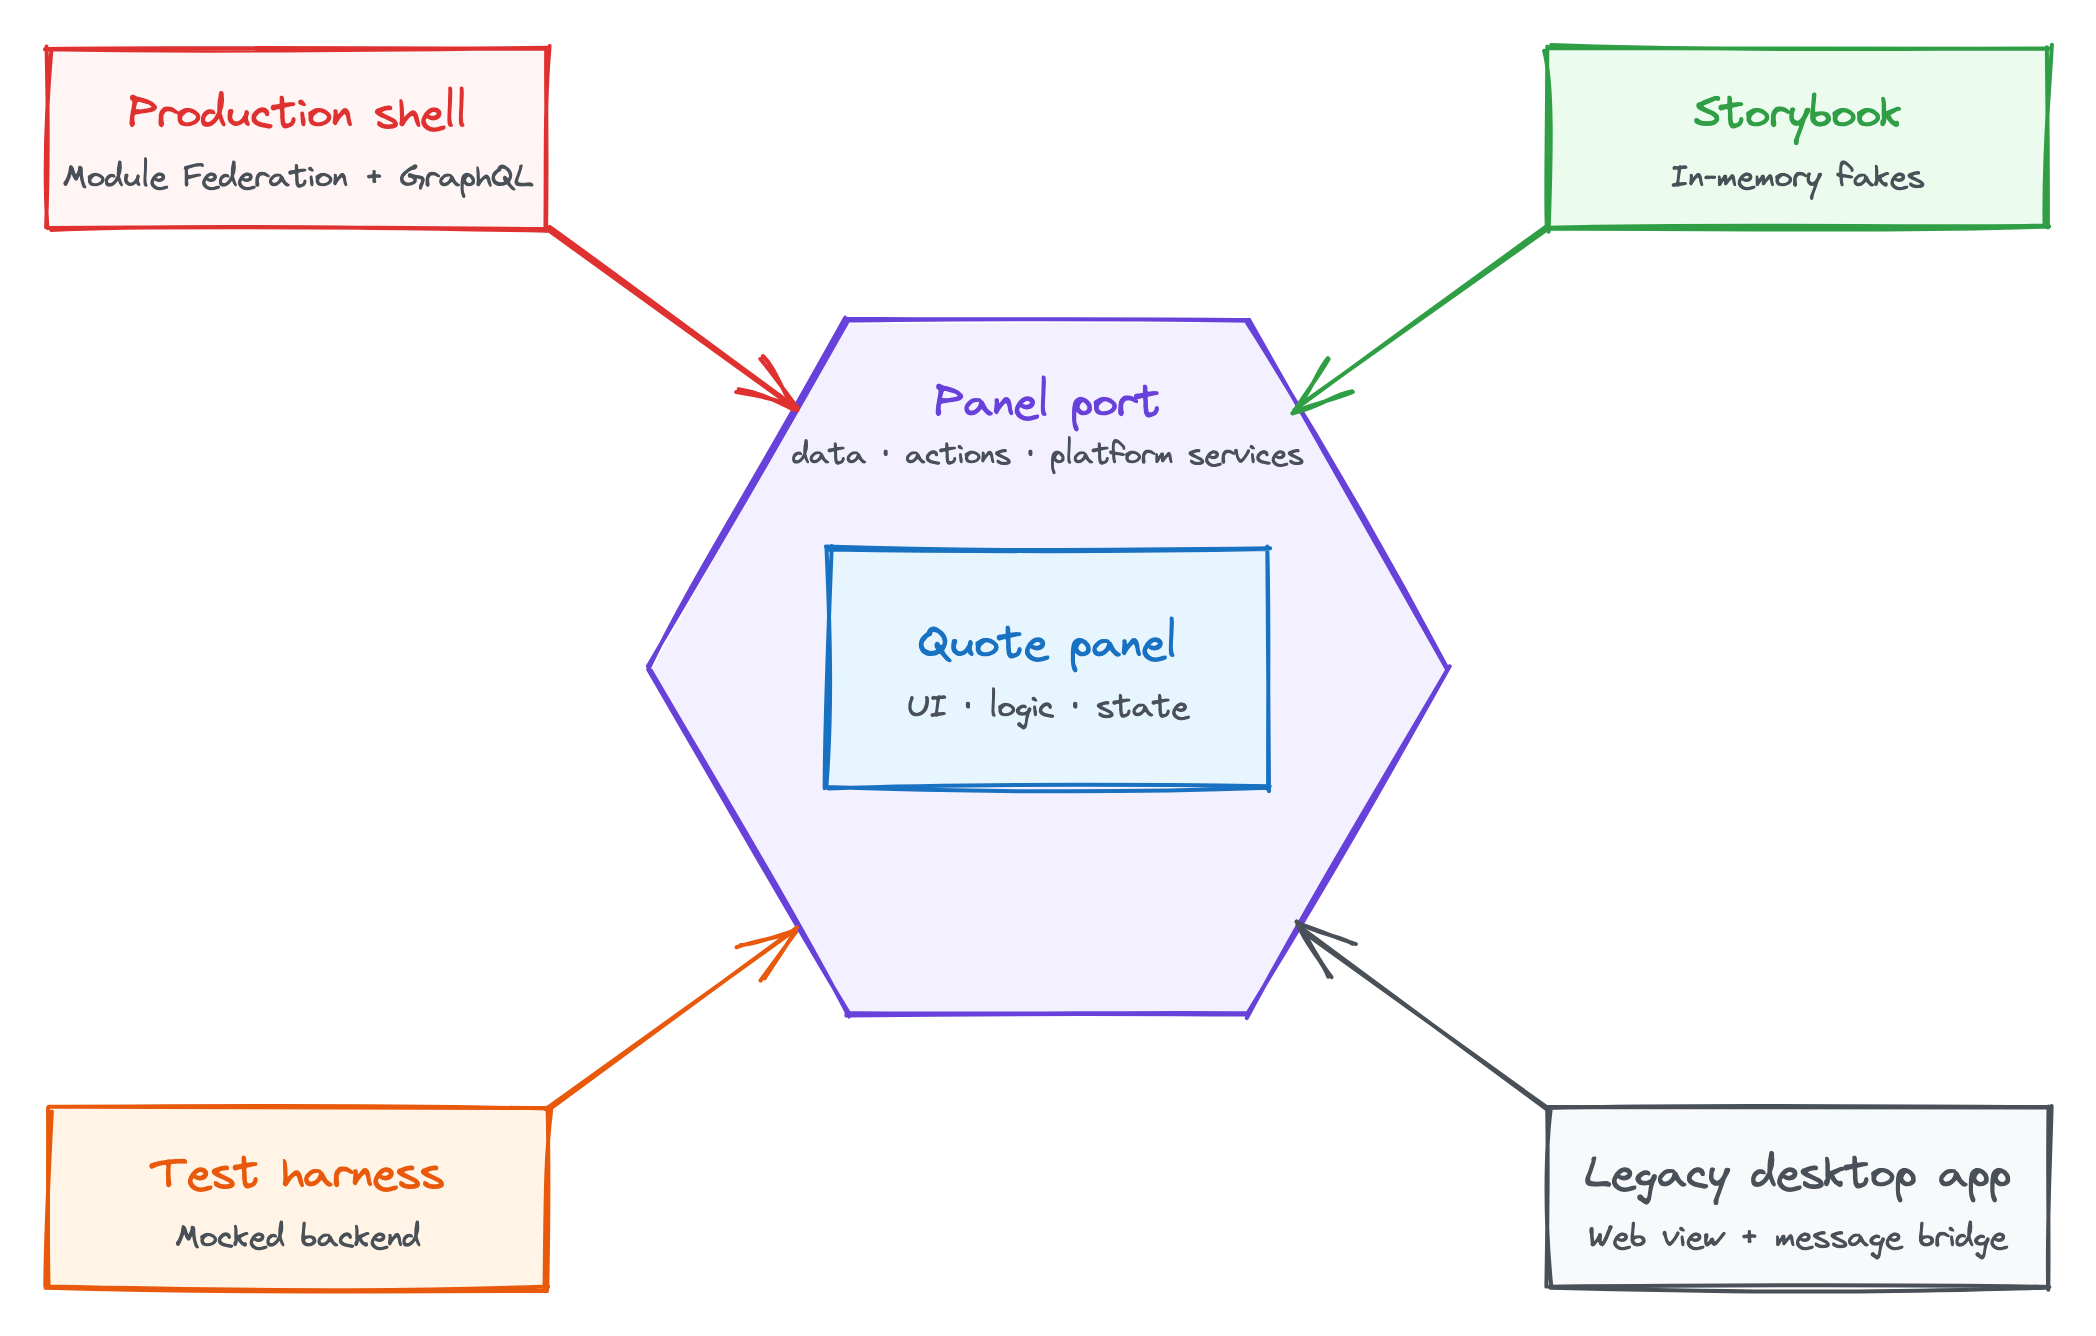
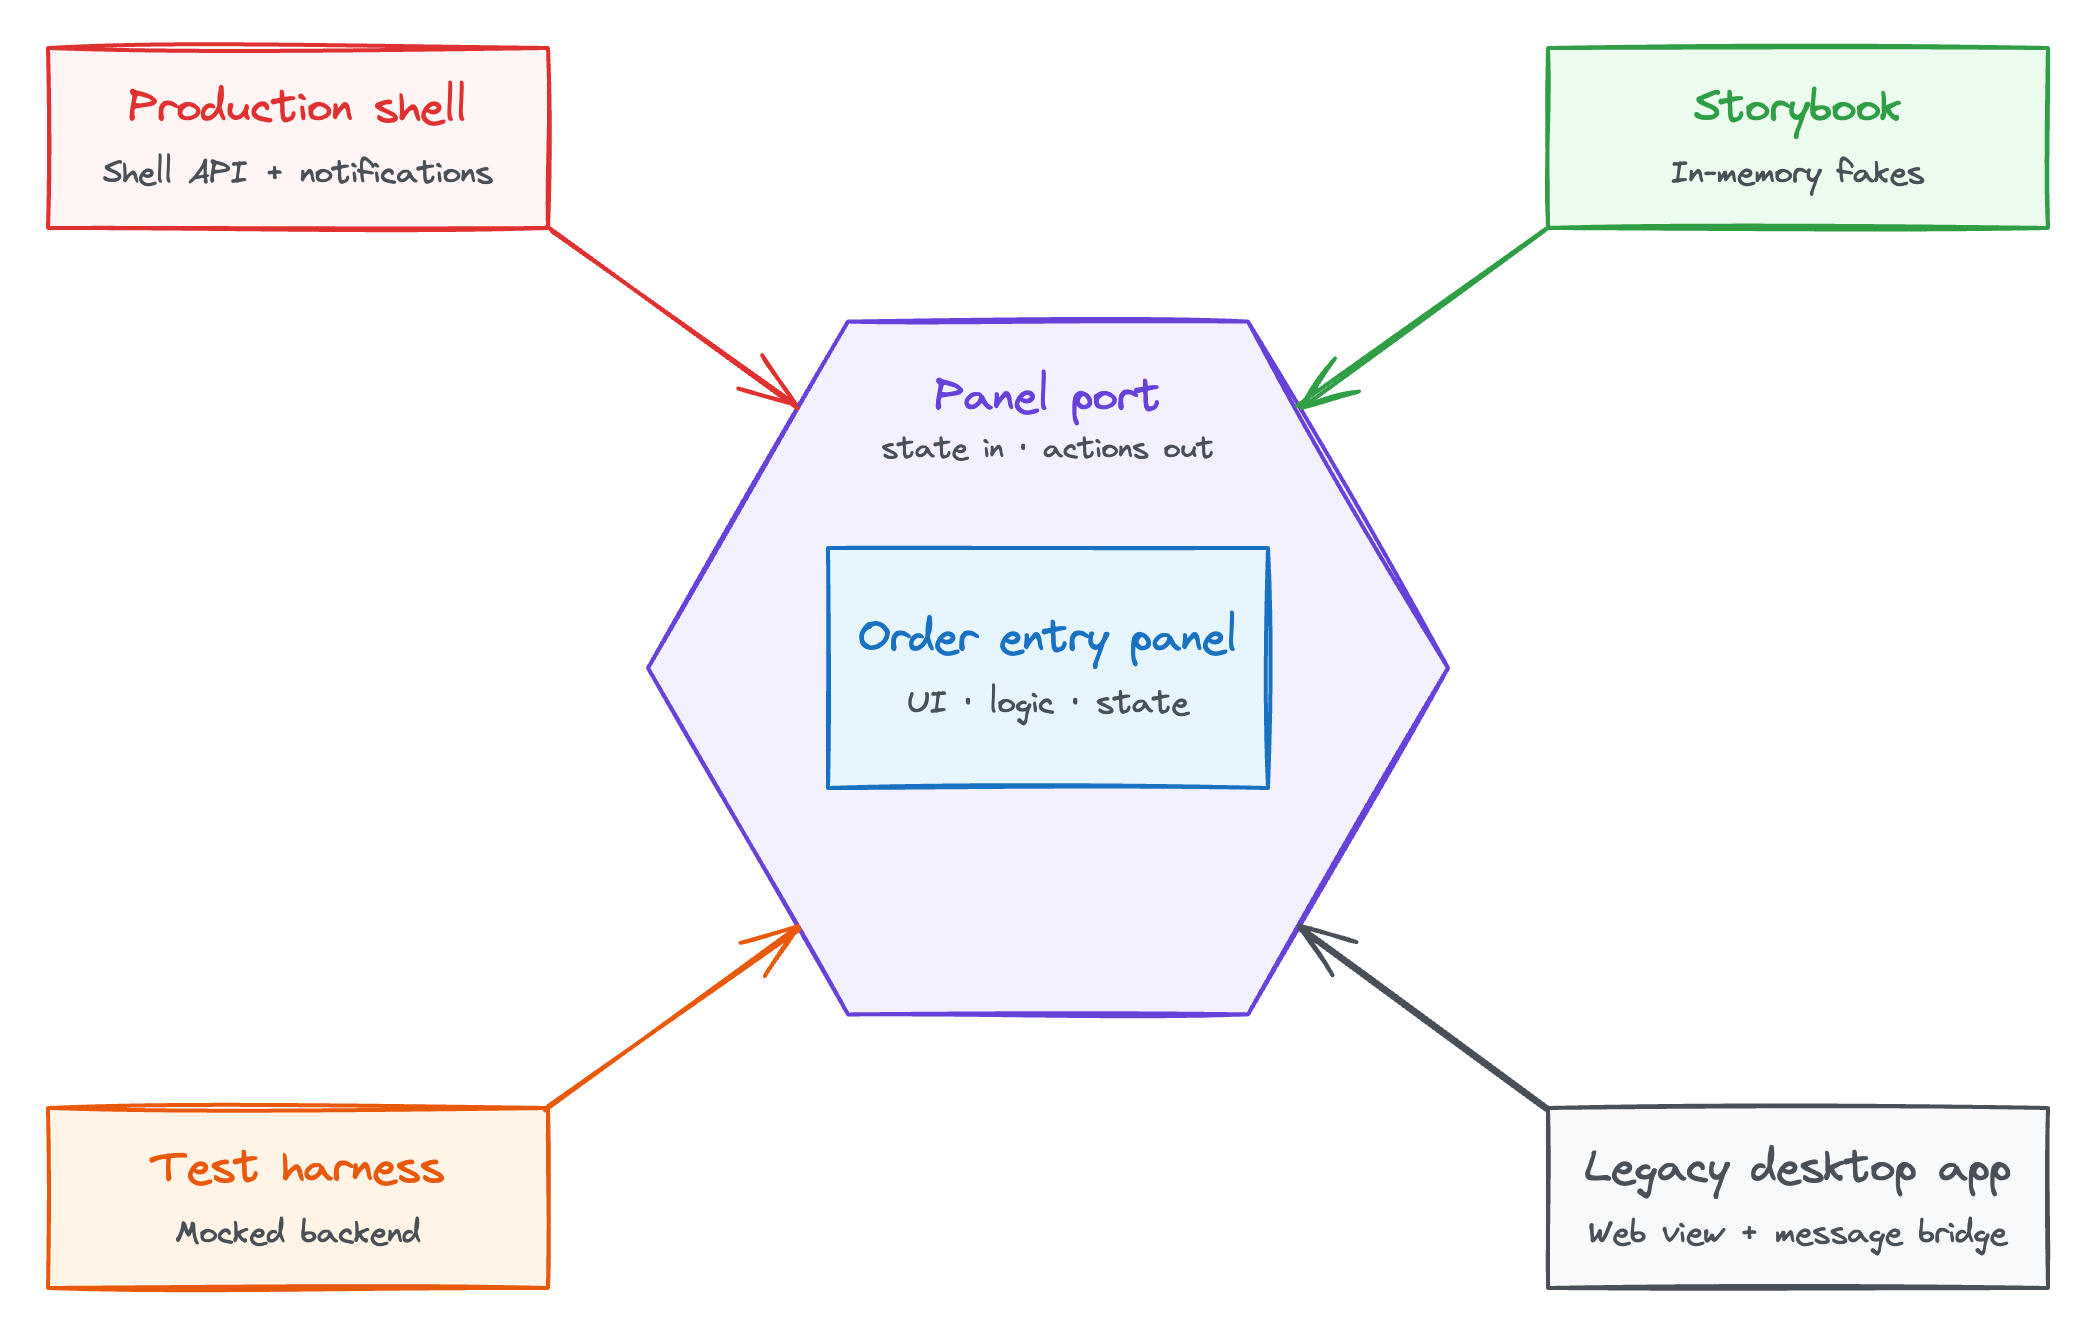
docs: draft hexagonal architecture section and update diagram
Claude-Session: https://claude.ai/code/session_017rTTwwU8YiK92XBfFbsHr6

diff --git a/blog/ports-and-adapters-for-micro-frontends.md b/blog/ports-and-adapters-for-micro-frontends.md
@@ -106,24 +106,48 @@ them independently.
 
 ## Hexagonal architecture in front-end terms
 
-**TODO:** Explain ports and adapters from first principles for readers who
-haven't met it. Link to Alistair Cockburn's original article. Translate the
-server-side framing:
+Alistair Cockburn described
+[hexagonal architecture](https://alistair.cockburn.us/hexagonal-architecture),
+or ports and adapters, in 2005 as a way for an application "to be developed and
+tested in isolation from its eventual run-time devices and databases". Replace
+devices and databases with the shell and its shared modules and the same goal
+applies to a micro-frontend, or panel. The pattern has three parts:
 
-- The **application core** is the panel: its UI, logic and state.
-- A **port** is the interface describing everything the panel needs from
-  outside.
-- An **adapter** fulfils the port for one host.
-- Dependencies point inwards: adapters know about the panel, the panel never
-  knows about adapters.
+- **The application** is the panel's logic and state: the bid it builds from the
+  user's input and what it does when the bid succeeds or fails. The order entry
+  form drives it and ships with it as one panel.
+- **A port** is an interface that describes what the panel needs from the
+  outside, in the panel's own terms. Order entry needs to submit a bid and
+  notify the user of the outcome.
+- **An adapter** implements the port for one host. In the production shell,
+  submitting a bid calls the shell's API. In Storybook it can resolve straight
+  away, or reject to show the error state, without making a request.
 
-Keep it concrete. Avoid the abstract hexagon talk until the diagram.
+In Cockburn's article the UI sits outside the application and drives it through
+a port, which means tests can take its place. The same is true here: the panel's
+UI only reads state and calls actions, and never reaches past the port. The UI
+is also part of what a micro-frontend ships, so it needs testing too. In
+Storybook and the test harness the real UI stays in place and the adapter behind
+the port changes.
+
+The important change is the direction of the dependencies. `OrderEntry` imports
+`@shell/api` and `@shell/notifications`, so the panel depends on the shell. With
+a port the dependency is inverted. The panel defines the interface, each adapter
+depends on that interface to implement it and the host chooses which adapter to
+provide when it mounts the panel. The panel never imports an adapter, so it
+doesn't know which host it's running in.
+
+The port covers traffic in both directions. State changes come in, such as the
+user selecting a different instrument in another panel, and actions go out, such
+as submitting a bid. The number of sides on the hexagon has no meaning, it just
+leaves room to draw an adapter for each host.
 
 <copy-to-clipboard data-url="/img/blog/ports-and-adapters-for-micro-frontends/panel-hexagon.png" class="ctc-image">
   <figure>
-    <img src="/img/blog/ports-and-adapters-for-micro-frontends/panel-hexagon.png" alt="Diagram of a quote panel at the centre of a hexagon with its port on the boundary, surrounded by four adapters: production shell, Storybook, test harness and legacy desktop app">
+    <img src="/img/blog/ports-and-adapters-for-micro-frontends/panel-hexagon.png" alt="Diagram of an order entry panel inside a hexagon labelled panel port, state in and actions out. Four adapters point inwards to the port: production shell using the shell API and notifications, Storybook using in-memory fakes, test harness using a mocked backend and legacy desktop app using a web view and message bridge">
     <figcaption>
-      The quote panel depends only on its port; each host supplies an adapter
+      The order entry panel depends only on its port; each host supplies an
+      adapter
     </figcaption>
   </figure>
 </copy-to-clipboard>
